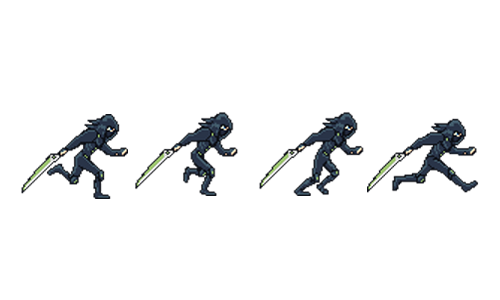
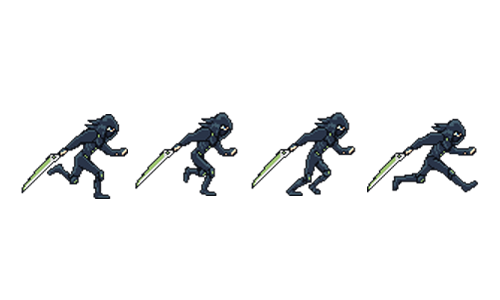
D leaw

Changed region(s): [[0.48, 0.36, 0.75, 0.66]]

diff --git a/Ninja/main.cpp b/Ninja/main.cpp
@@ -1,6 +1,6 @@
 #include <SFML/Graphics.hpp>
 #include <iostream>
-#include "mainMenu.h"
+
 #include "Animation.h"
 #include "Player.h"
 
@@ -8,14 +8,14 @@ int main()
 {
     sf::RenderWindow window(sf::VideoMode(1280, 720), "Bloody Sword", sf::Style::Close | sf::Style::Default);
    
-    mainMenu text(window.getSize().x, window.getSize().y);
+    
 
    
     sf::Texture playerTexture;
-    playerTexture.loadFromFile("player/runrightv2.png");
+    playerTexture.loadFromFile("player/move.png");
    
 
-    Player player(&playerTexture, sf::Vector2u(4, 3), 0.2f, 100.0f);
+    Player player(&playerTexture, sf::Vector2u(4, 2), 0.1f, 250.0f);
 
     float deltaTime = 0.0f;
     sf::Clock clock;
@@ -30,19 +30,7 @@ int main()
         {
             switch (evnt.type)
             {
-            case sf::Event::KeyReleased:
-                switch (evnt.key.code)
-                {
-               
-                case sf::Keyboard::Up:
-                    text.MoveUp();
-                    break;
-
-                case sf::Keyboard::Down:
-                    text.MoveDown();
-                    break;
-
-                }
+            
                 
                 break;
             }
@@ -58,7 +46,7 @@ int main()
 
         window.clear();
 
-        text.draw(window);
+        
         player.Draw(window);
         window.display();
     }

diff --git a/Ninja/Player.cpp b/Ninja/Player.cpp
@@ -7,7 +7,7 @@ Player::Player(sf::Texture* texture, sf::Vector2u imageCount, float switchTime, 
 	faceRight = true;
 
 	body.setSize(sf::Vector2f(100.0f, 100.0f));
-	body.setPosition(200.0f, 200.0f);
+	body.setPosition(200.0f, 500.0f);
 	body.setTexture(texture);
 	
 }
